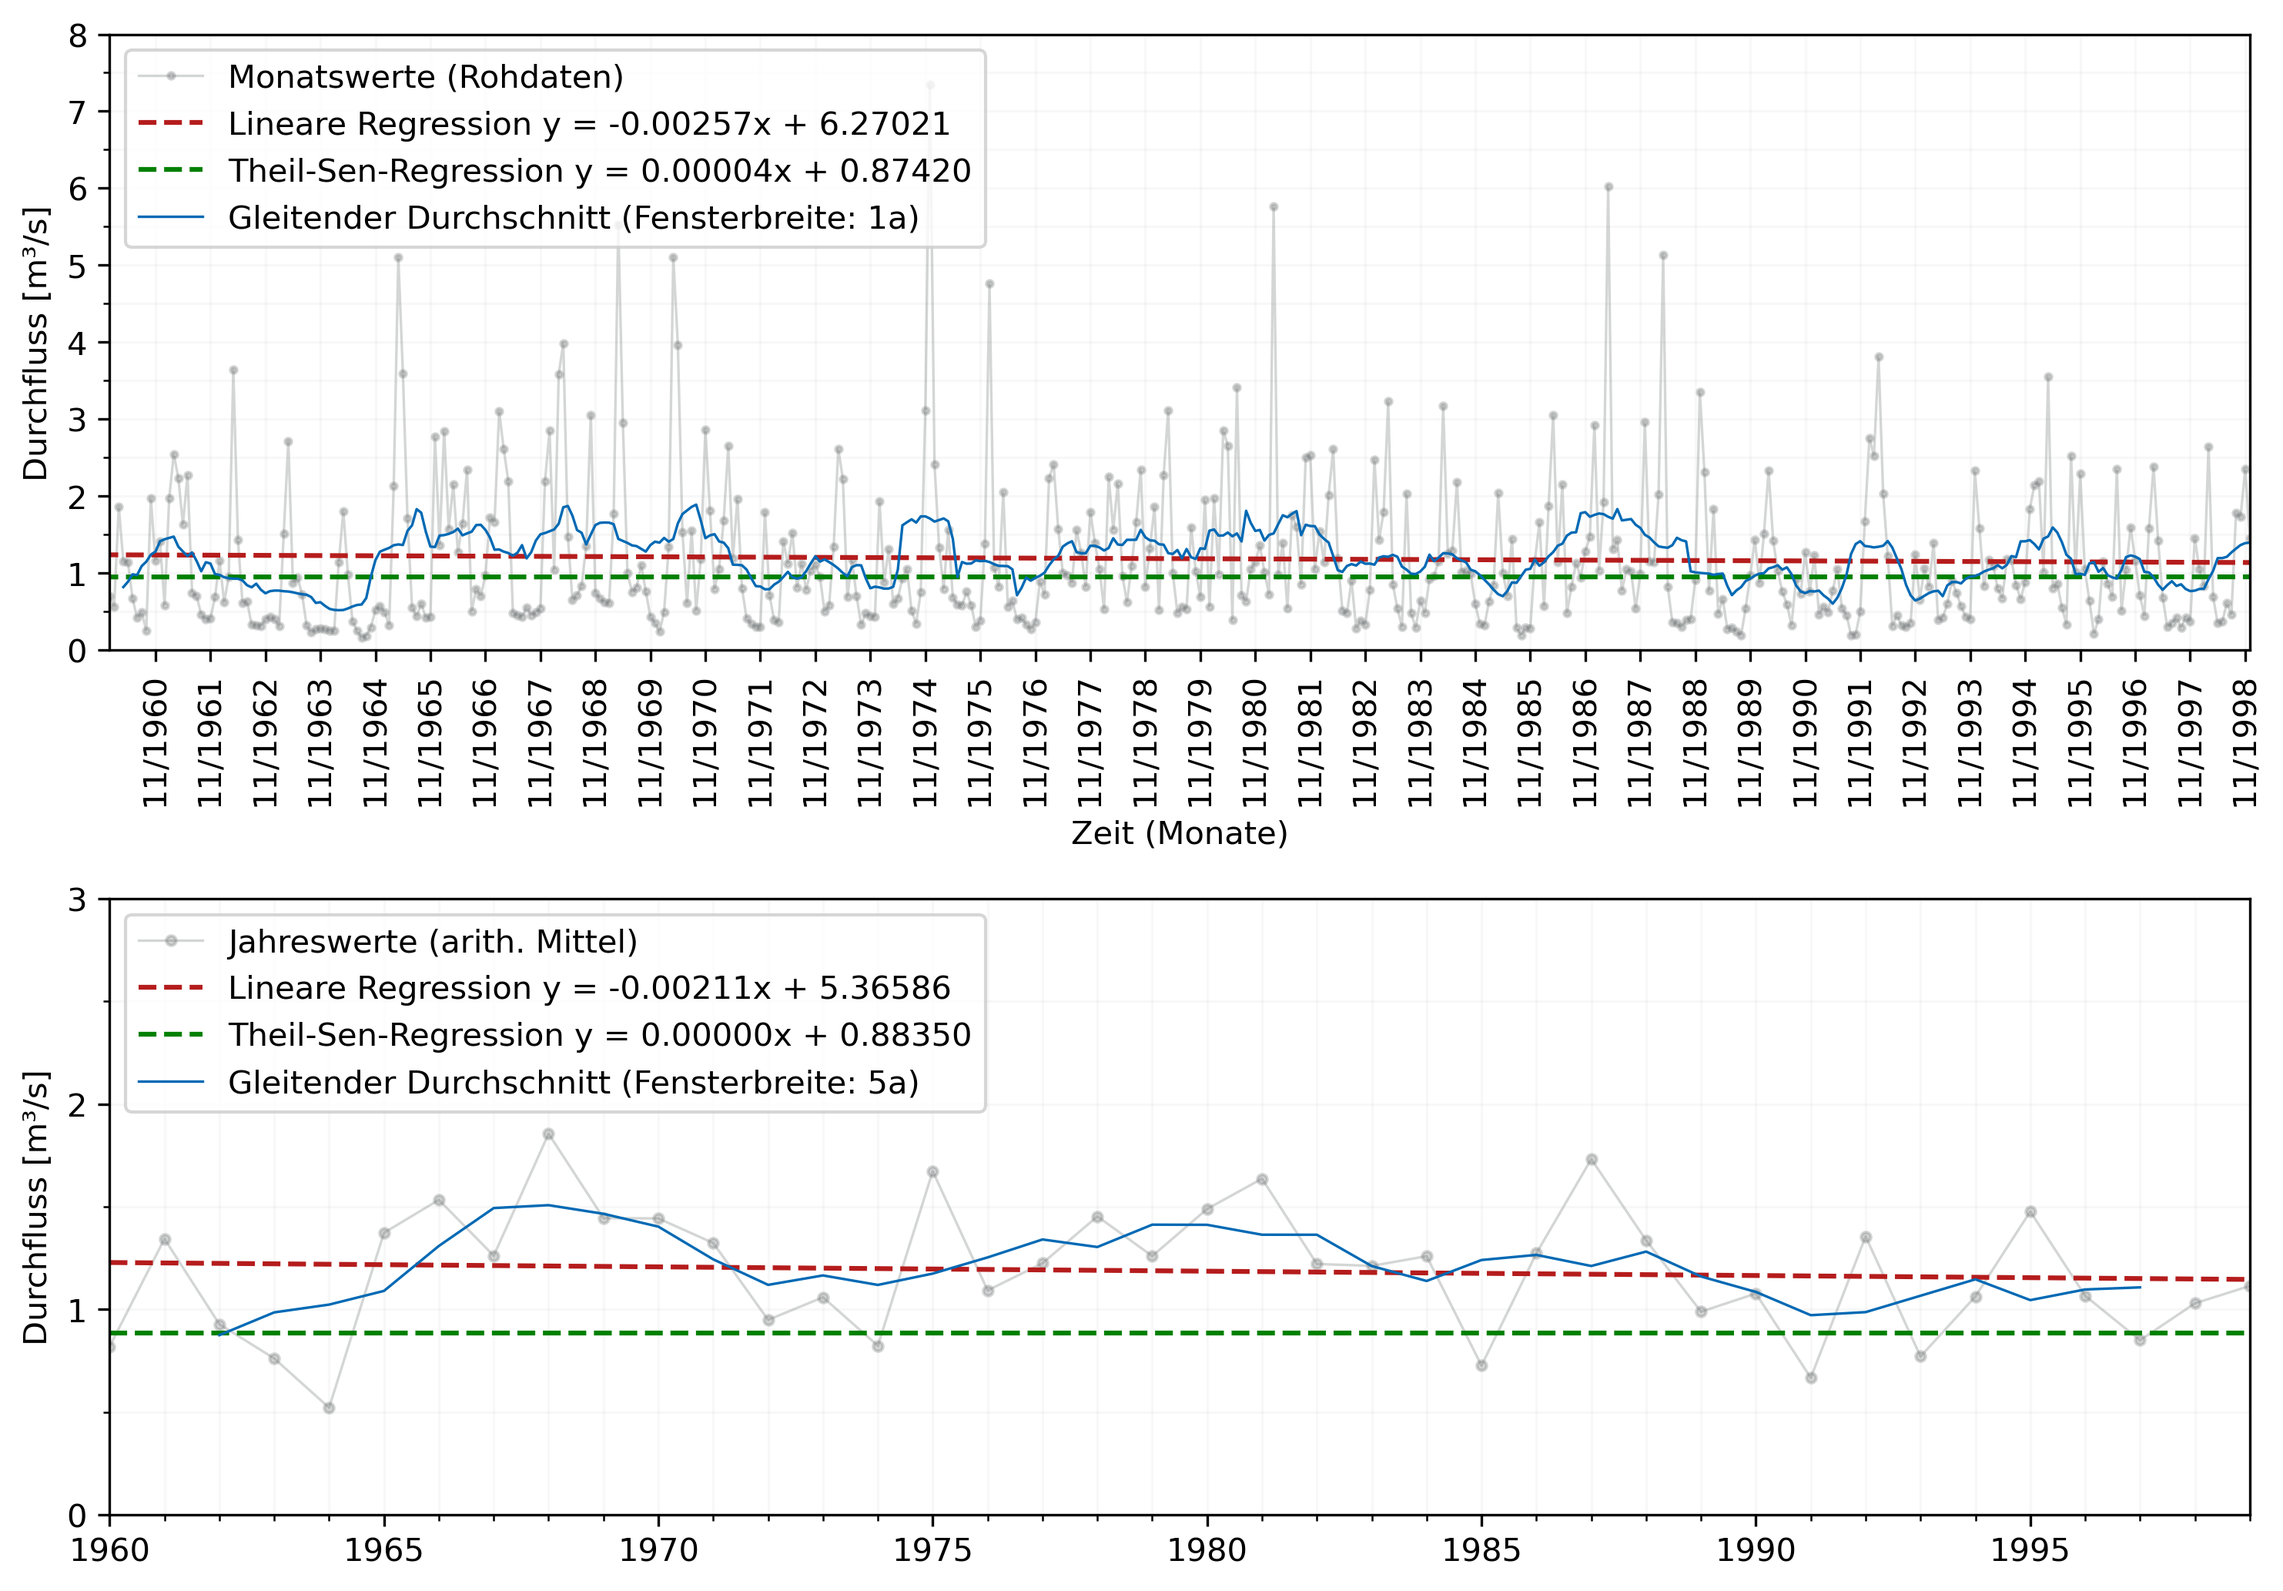
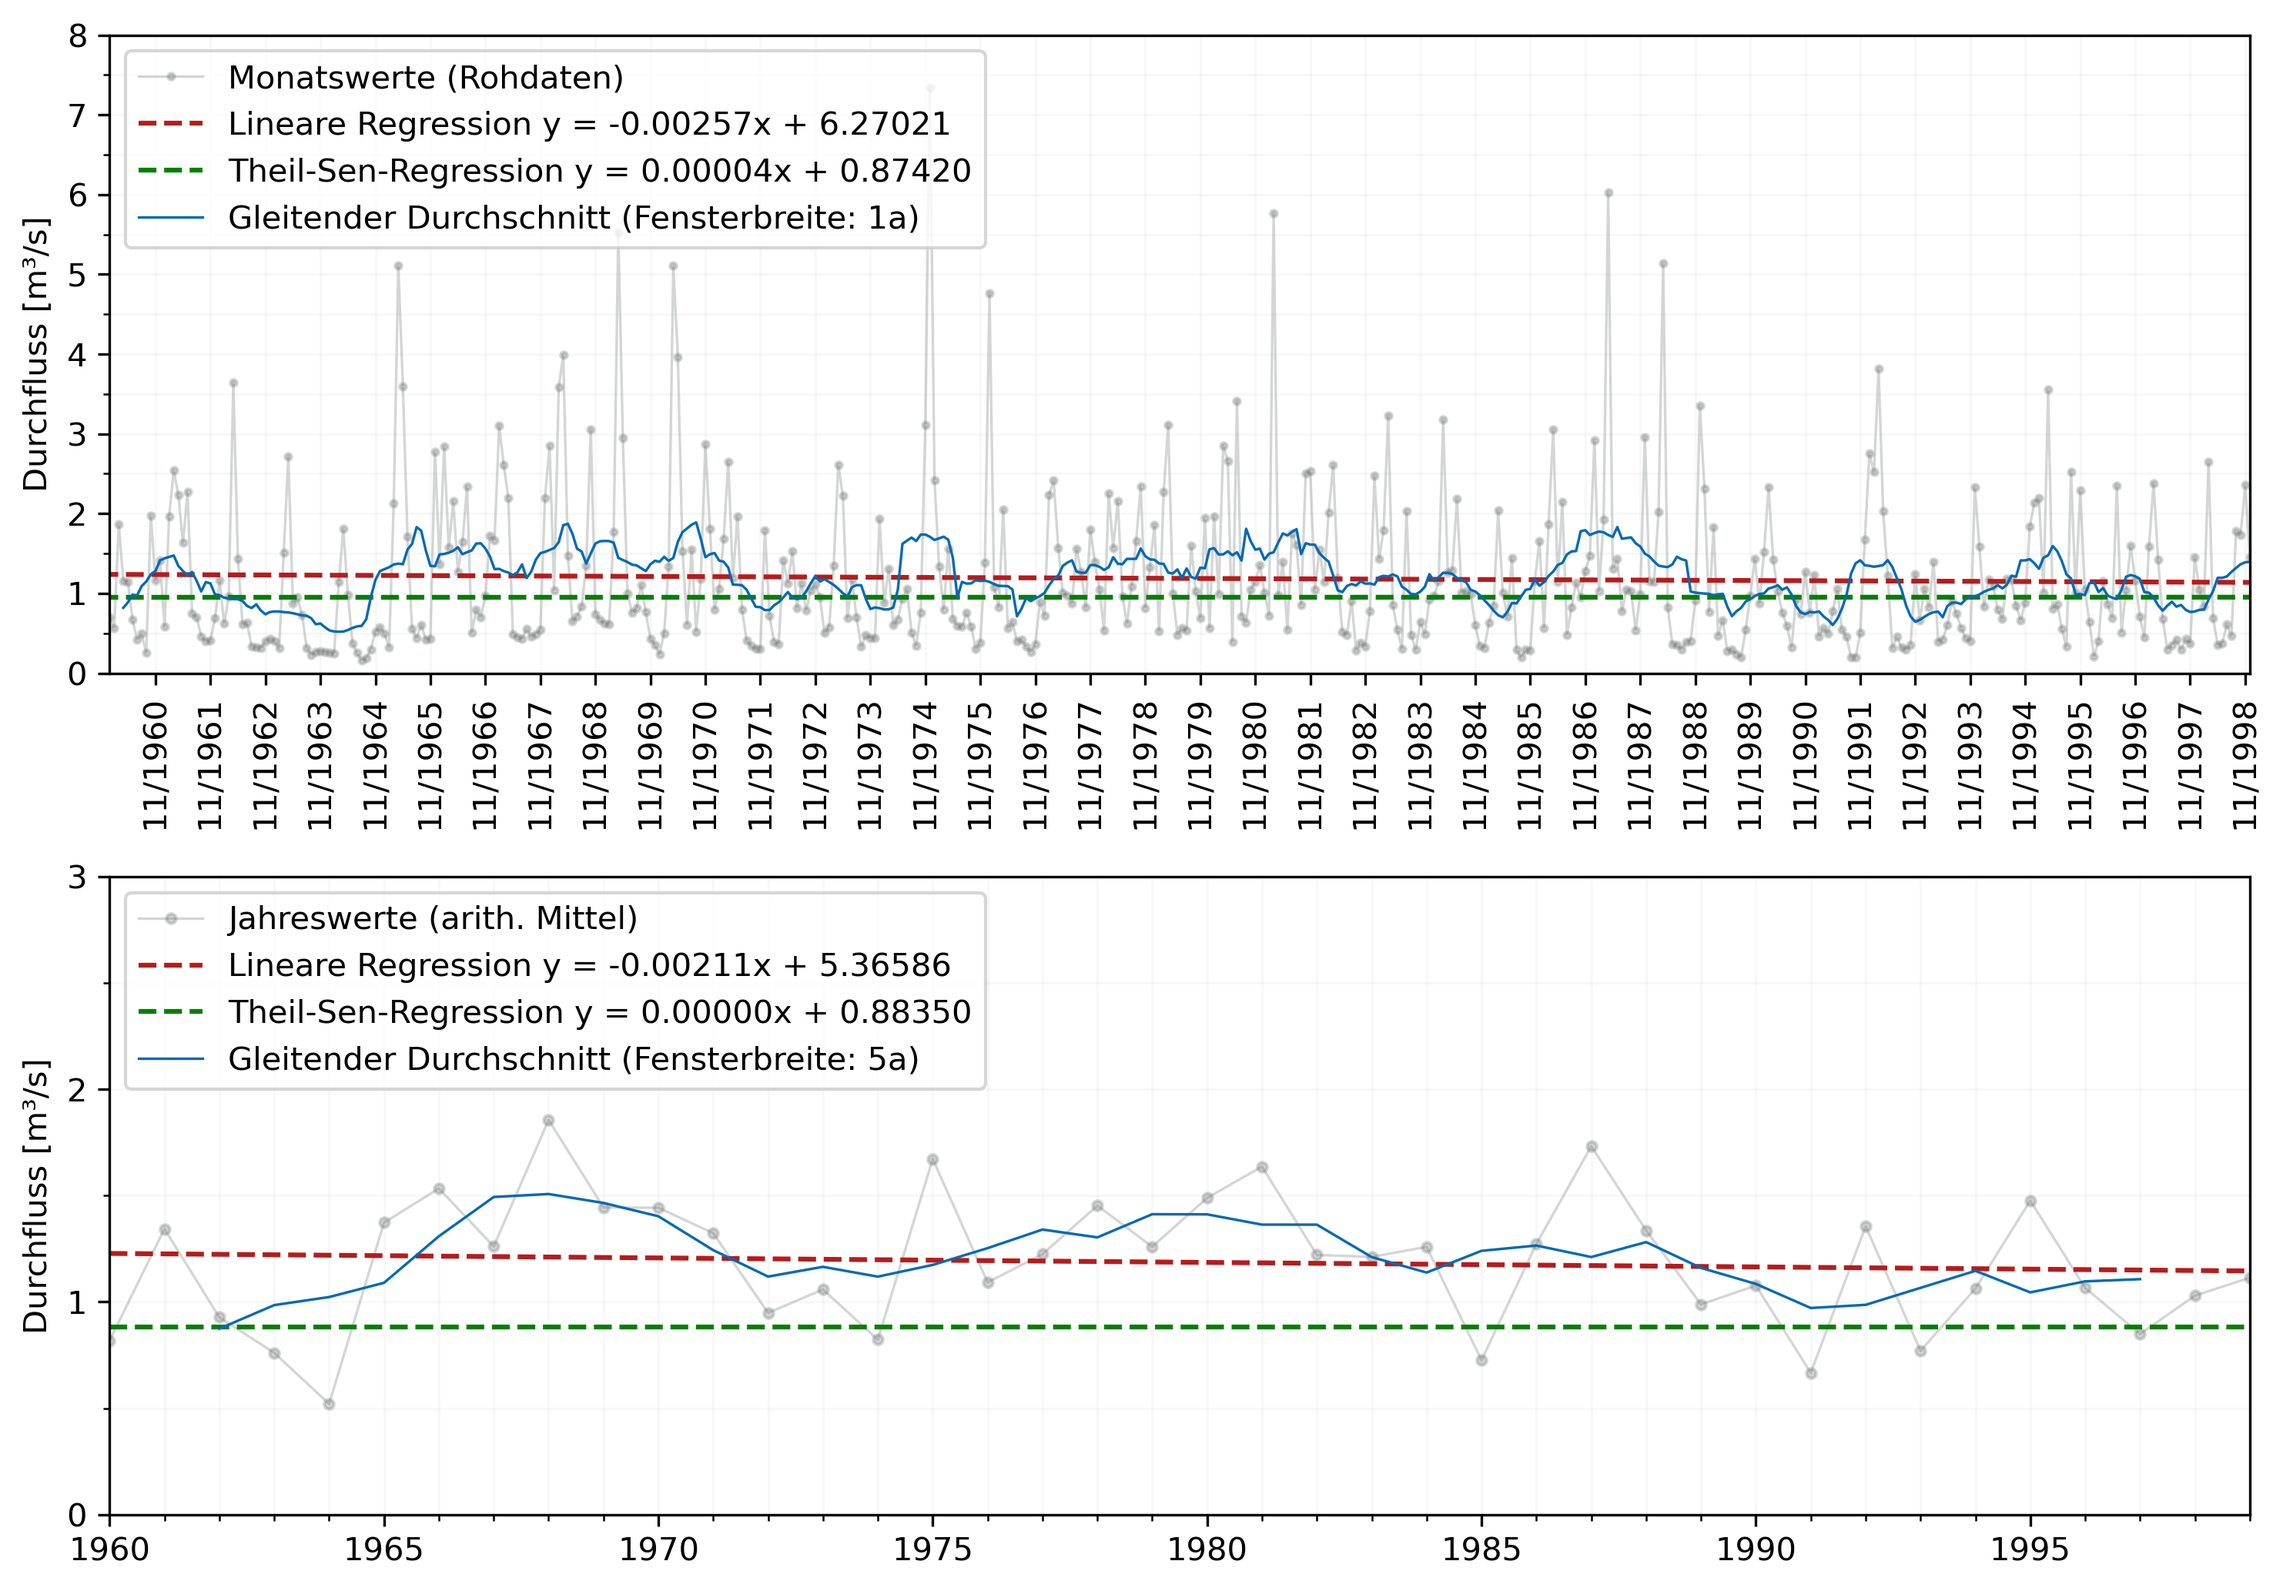
➕ Add outlier tests and DSK plot.

diff --git a/code/utils/plotting.py b/code/utils/plotting.py
@@ -2,6 +2,7 @@ import numpy as np
 import pandas as pd
 import matplotlib.pyplot as plt
 import pymannkendall as mk
+import scipy
 
 from config import image_path, pegelname, tu_mediumblue, tu_grey, tu_red
 from utils.statistics import hyd_years, max_val, max_val_month, min_val, \
@@ -42,6 +43,25 @@ def plot_raw(df: pd.DataFrame):
     plt.xlim(left=df["Monat"].min(), right=df["Monat"].max())
     plt.legend(loc="upper right")
     plt.savefig(image_path+f"{pegelname}_raw.png", dpi=300, bbox_inches="tight")
+
+def plot_dsk(test_cumsum: np.ndarray, ref_cumsum: np.ndarray):
+    """Plot double sum curve."""
+    plt.figure(figsize=(5,5))    
+    for i in range(0, len(ref_cumsum), 12):
+        plt.scatter(ref_cumsum[i], test_cumsum[i], c=tu_mediumblue, s=15,
+                    marker="x", zorder=2, label="Messdaten", alpha=0.75)
+    res = scipy.stats.linregress(ref_cumsum, test_cumsum)
+    m = res.slope
+    b = res.intercept
+    plt.plot(ref_cumsum, m*ref_cumsum+b, c=tu_red, alpha=0.8, linewidth=1,
+             label=f"lineare Regressionsgerade: y = {m:.3f}x + {b:.3f}", zorder=1)
+    plt.grid(color="grey", alpha=0.3)
+    plt.xlabel("Kumulierter Durchfluss [m³/s] der Testreihe")
+    plt.ylabel("Kumulierter Durchfluss [m³/s] der Prüfreihe")
+    plt.xlim(left=0)
+    plt.ylim(bottom=0)
+    # plt.legend(loc="upper left", bbox_to_anchor=(-0.02, 1.15), frameon=False)
+    plt.savefig(image_path+f"{pegelname}_dsk.png", dpi=300, bbox_inches="tight")
 
 def plot_trend(df: pd.DataFrame):
     """Plot trend analysis summary."""
@@ -89,7 +109,7 @@ def plot_trend(df: pd.DataFrame):
                 label=f"Gleitender Durchschnitt (Fensterbreite: 5a)")
     
     ax1.set_ylim([0,8])
-    ax1.set_xlabel("Zeit (Monate)")
+    # ax1.set_xlabel("Zeit (Monate)")
     ax1.set_xticks(df["Monat"][::12], minor=False)
     ax1.set_xticklabels(df["Monat"][::12], rotation=90)
     ax1.set_yticks(np.arange(0, 8.5, 0.5), minor=True)

diff --git a/code/main.py b/code/main.py
@@ -7,14 +7,14 @@ from utils.data_structures import read_data, check_path
 import utils.statistics as st
 from utils.consistency_check import missing_values, missing_dates, duplicates
 from utils.plotting import plot_raw, plot_hist, plot_trend, plot_components, \
-    plot_spectrum, plot_sin_waves, plot_characteristics, plot_acf
+    plot_spectrum, plot_sin_waves, plot_characteristics, plot_acf, plot_dsk
 
 
 check_path(image_path)
 check_path(report_path)
 
 
-df = read_data(filename="Daten_Klingenthal_raw.txt")
+df = read_data("data/Daten_Klingenthal_raw.txt")
 
 info = pd.DataFrame(columns=["Name", "Wert", "Einheit"])
 
@@ -26,12 +26,19 @@ print("\nKonsistenzprüfung")
 print("\tFehlwerte:", missing_values(df))
 print("\tFehlende Zeitschritte:", missing_dates(df))
 print("\tDuplikate:", duplicates(df))
+print("\tAusreißertest (IQR-Kriterium): ", st.outlier_test_iqr(df), len(st.outlier_test_iqr(df)))
+print("\tAusreißertest (z-score): ", st.outlier_test_zscore(df), len(st.outlier_test_zscore(df)))
+print("\tAusreißertest (Grubbs): ", st.outlier_test_grubbs(df), len(st.outlier_test_grubbs(df)))
 
 # -----------------------------------------
 #           Homogenity check
 # -----------------------------------------
 
-# TODO: #6 Check for outliers
+klingenthal = read_data("data/Daten_Klingenthal_raw.txt")
+rothenthal = read_data("data/others/Daten_Rothenthal.txt")
+test_cumsum, ref_cumsum = st.double_sum(klingenthal["Durchfluss_m3s"], rothenthal["Durchfluss_m3s"])
+plot_dsk(test_cumsum, ref_cumsum)
+
 # TODO: #7 double sum analysis
 
 # -----------------------------------------

diff --git a/code/utils/statistics.py b/code/utils/statistics.py
@@ -5,6 +5,40 @@ import pymannkendall as mk
 
 
 # -----------------------------------------
+#         Quality investigation
+# -----------------------------------------
+
+def outlier_test_iqr(df: pd.DataFrame, var: str = "Durchfluss_m3s"):
+    """Returns a list of outliers using the IQR method."""
+    q1 = df[var].quantile(q=0.25, interpolation="nearest")
+    q3 = df[var].quantile(q=0.75, interpolation="nearest")
+    iqr = q3 - q1
+    print("Schranke:", q1 - 1.5*iqr, q3 + 1.5*iqr)
+    return df.loc[(df[var] < q1 - 1.5*iqr) | (df[var] > q3 + 1.5*iqr)]
+
+def outlier_test_zscore(df: pd.DataFrame, var: str = "Durchfluss_m3s"):
+    """Returns a list of outliers using the z-score method."""
+    g_upper = df[var].mean() + 3*df[var].std()
+    g_lower = df[var].mean() - 3*df[var].std()
+    print("Schranke:", g_lower, g_upper)
+    # return rows below and above the threshold
+    return df.loc[(df[var] < g_lower) | (df[var] > g_upper)]
+
+def outlier_test_grubbs(df: pd.DataFrame, var: str = "Durchfluss_m3s"):
+    """Returns a list of outliers using the Grubbs method."""
+    max_diff = np.max(np.abs(df[var] - df[var].mean()))
+    s = np.std(df[var])
+    g = max_diff / s
+    print("Schranke:", g)
+    return df.loc[df[var] > g]
+
+def double_sum(test_gauge: list[float], ref_gauge: list[float]):
+    """Returns a list of double sums."""
+    sum_test = np.cumsum(test_gauge)
+    sum_ref = np.cumsum(ref_gauge)
+    return sum_test, sum_ref
+
+# -----------------------------------------
 #           Primary statistics
 # -----------------------------------------
 

diff --git a/code/utils/data_structures.py b/code/utils/data_structures.py
@@ -9,9 +9,8 @@ def check_path(path):
         os.makedirs(path)
     return None
 
-def read_data(filename: str):
+def read_data(filepath: str):
     """Read data from file."""
-    filepath = "data/" + filename
     data = pd.read_csv(filepath, skiprows=3, sep="\t", encoding="latin1")
     data.columns = ["Monat", "Durchfluss_m3s"]
     data["Monat"] = data["Monat"].astype(str)
